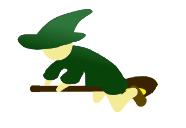
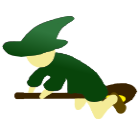
將角色圖片大小統一

Changed region(s): [[0.0, 0.0625, 1.0, 0.875]]

diff --git a/View/const.py b/View/const.py
@@ -10,7 +10,7 @@ Color_Red   = (255,   0,   0)
 Color_Gray  = (128, 128, 128)
 
 # Character center
-
+Player_center = (70,70)
 # Object positions
 Pos_map = (0, 0)
 Pos_time = (20, 740)
